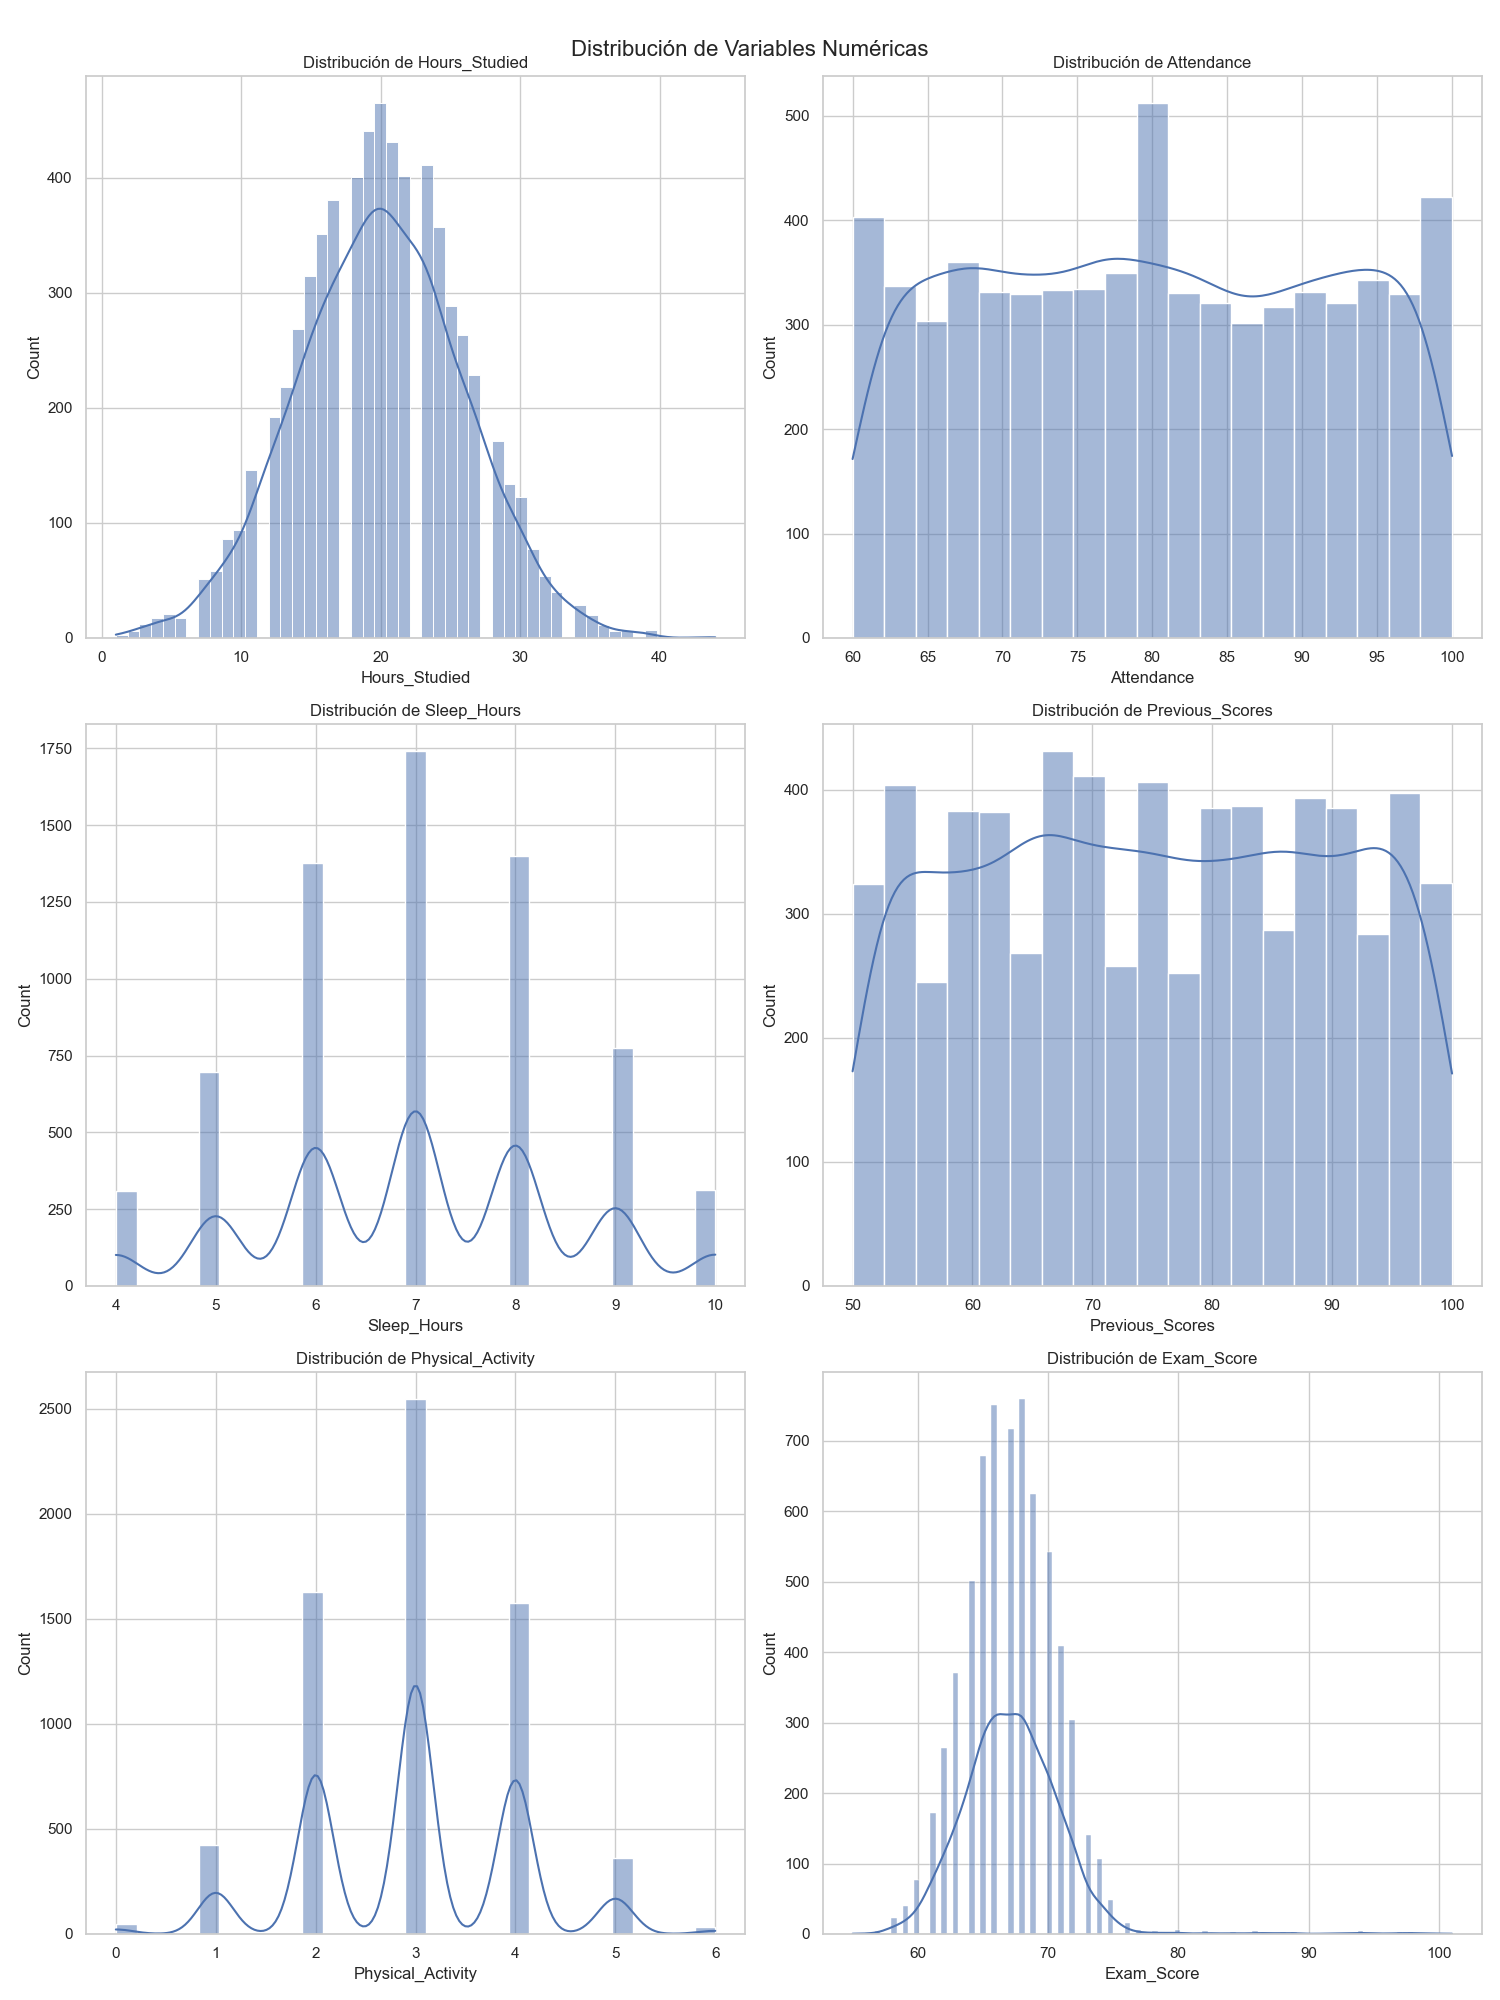
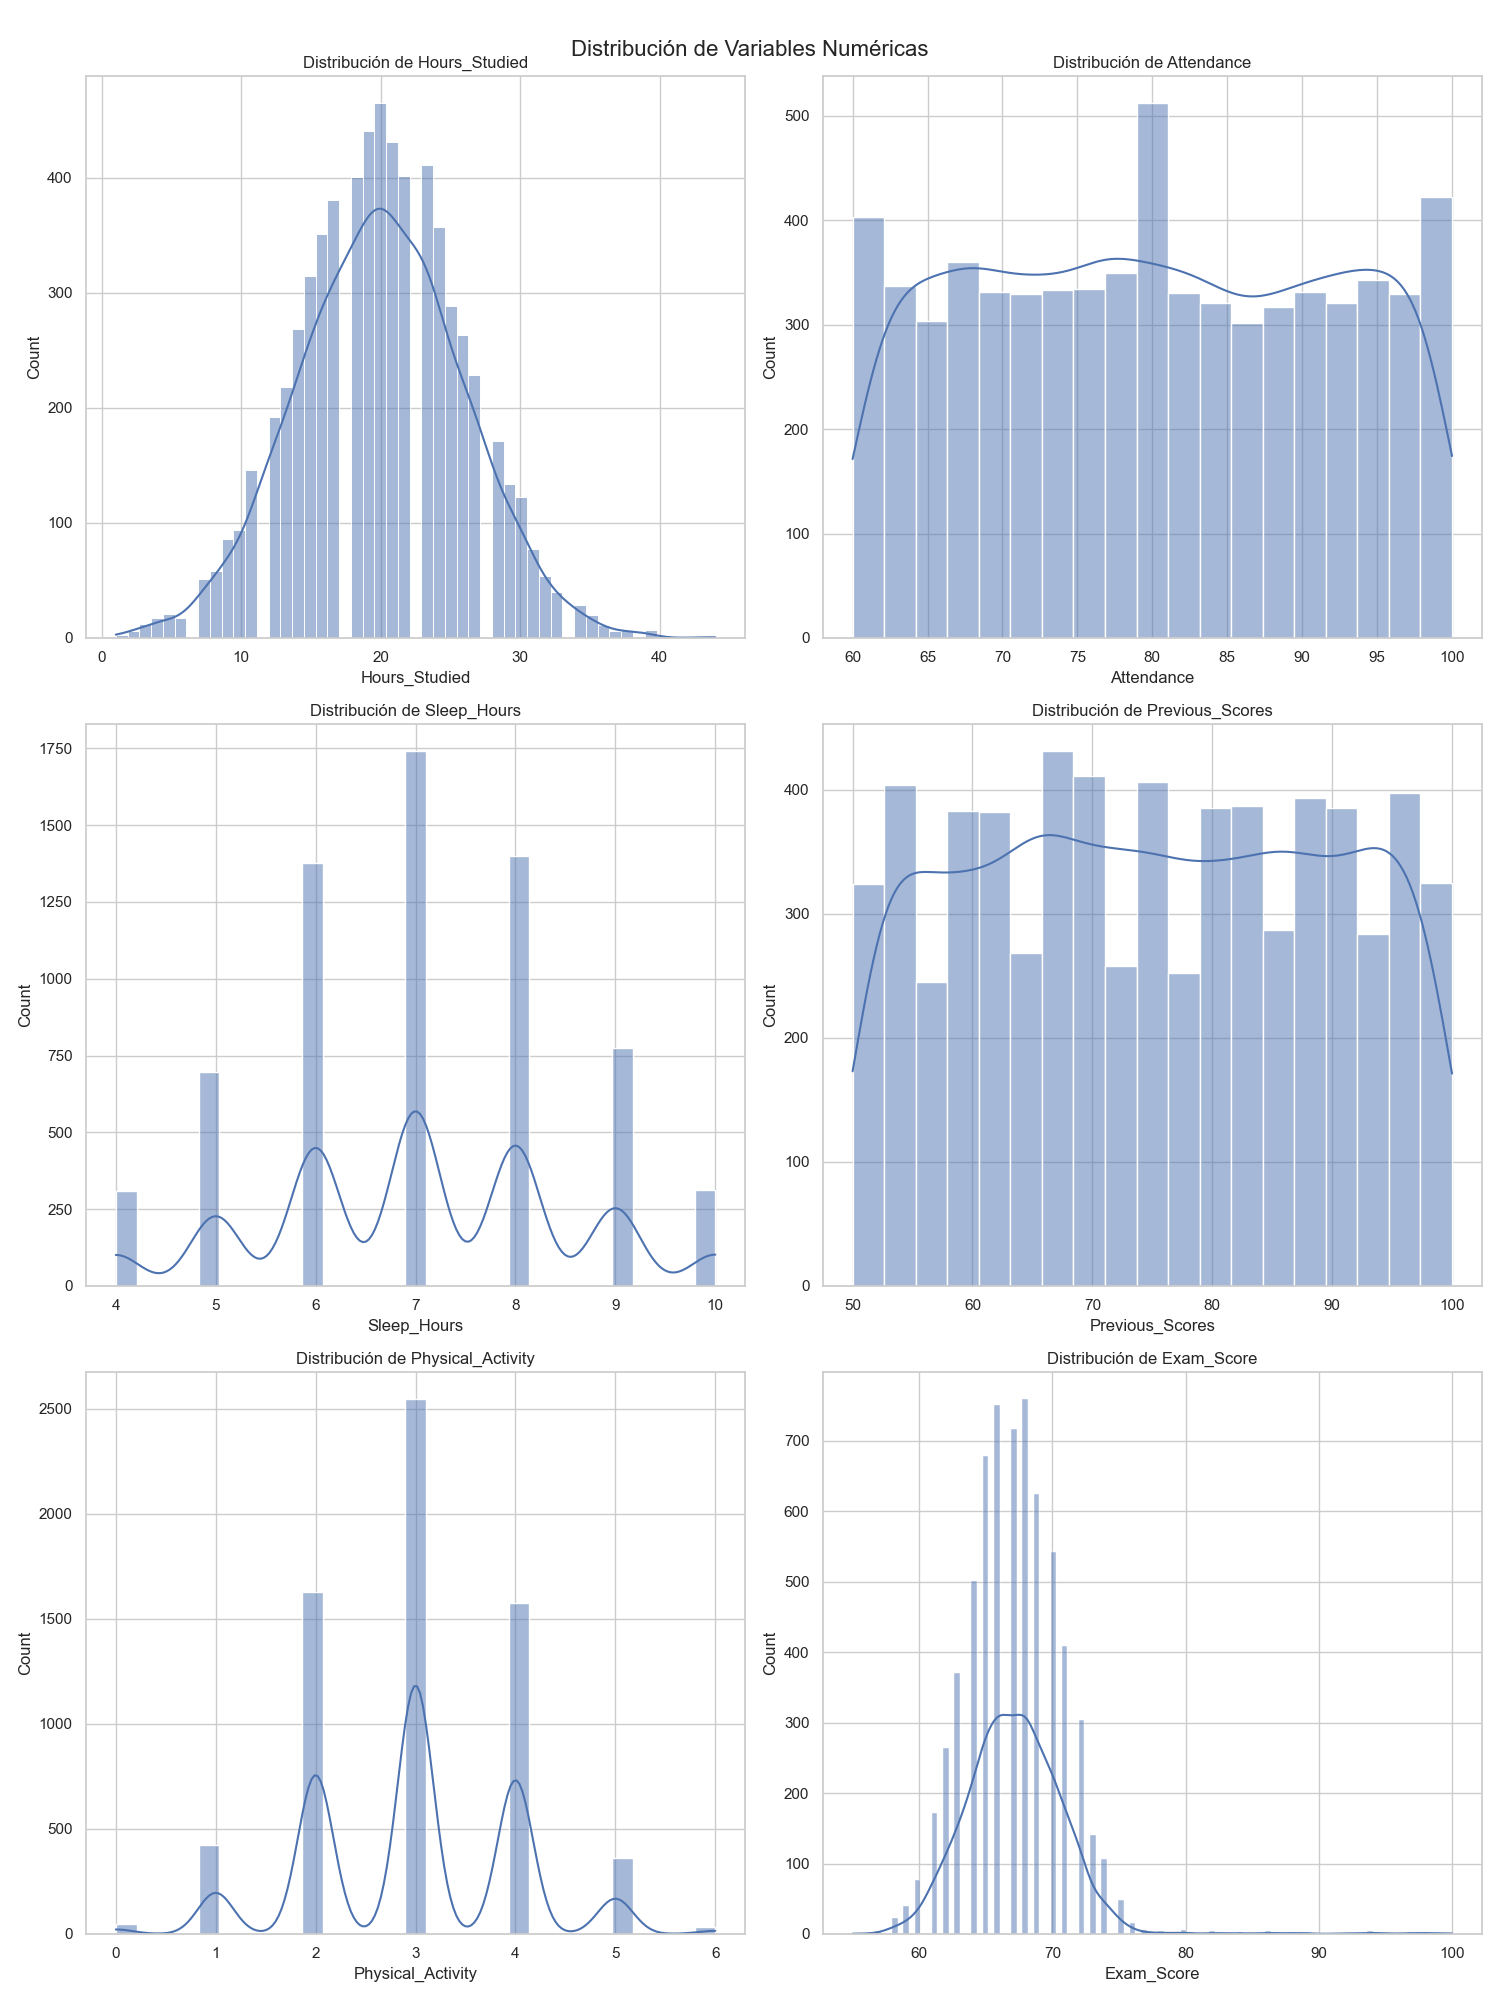
Tratamiento de valores anomalos

Changed region(s): [[0.6133, 0.713, 0.7667, 0.992]]

diff --git a/main.py b/main.py
@@ -19,12 +19,17 @@ def preprocess_data(file_path):
     # Crear una copia explícita del DataFrame para no alterar el original
     df = df.copy()
 
+    ###PROCESO DE LIMPIEZA###
     # Tratamiento de valores faltantes o nulos
     for column in df.columns:
         if df[column].dtype == 'object':  # Columna categórica
             df[column] = df[column].fillna(df[column].mode()[0])
         else:  # Columna numérica
             df[column] = df[column].fillna(df[column].mean())
+
+
+    # Tratamiento de valores anomalos
+    df.loc[df['Exam_Score']> 100, 'Exam_Score'] = 100
 
     return df
 
